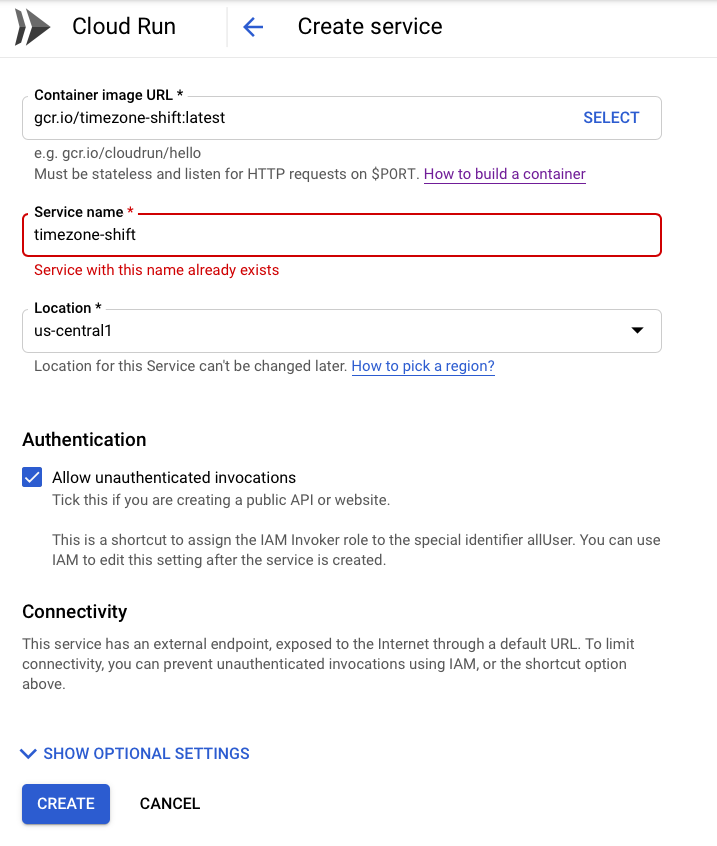
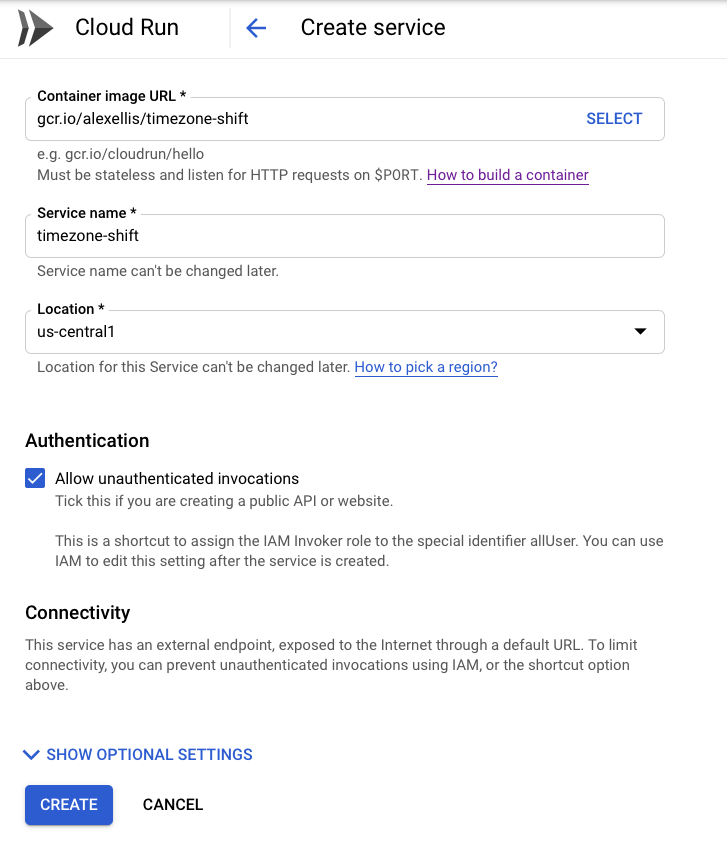
Add Cloud Run post

diff --git a/_posts/2019-04-09-openfaas-cloudrun.md b/_posts/2019-04-09-openfaas-cloudrun.md
@@ -1,8 +1,8 @@
 ---
-title: "Run your OpenFaaS functions for free on Google Cloud Run"
-description: Yesterday Google announced a new serverless SaaS product named Cloud Run, learn how to deploy your OpenFaaS functions for free
+title: "Run your OpenFaaS Functions on Google Cloud Run for free"
+description: Yesterday Google announced a new serverless SaaS product named Cloud Run, learn how to deploy your OpenFaaS Functions without modifications in the free tier
 date: 2019-04-09
-image: /images/openfaas-cloud-gitlab/palms-1.jpg
+image: /images/openfaas-cloudrun/cupping.jpg
 categories:
   - cloud
   - kubernetes
@@ -12,41 +12,51 @@ author_staff_member: alex
 dark_background: true
 ---
 
-In this post I'll show you how to build your OpenFaaS functions into the well-known Docker / OCI-image format so that you can deploy them to your own OpenFaaS cluster or to Google's new Cloud Run SaaS product.
+In this post I'll introduce Google's new Cloud Run product which like OpenFaaS allows any HTTP Server packaged in a Docker or OCI image format to be deployed and scaled.
 
-Yesterday Google [launched their new product](https://news.ycombinator.com/item?id=19610830) named Cloud Run. This is a proprietary serverless add-on for Google Cloud Platform (GCP) built around their flagship Istio and Knative projects.
+## Serverless 2.0 - it's about containers
 
-What does that mean for you and me? It means that we can deploy functions in containers to GCP and run them up to certain limits without incurring any billing costs. I thought it would be worth kicking the tires by deploying on of the functions I developed in my latest introductory post on [OpenFaaS Cloud & GitLab](https://www.openfaas.com/blog/openfaas-cloud-gitlab/).
+In my conference talk at [goto Copenhagen](https://www.youtube.com/watch?v=yOpYYYRuDQ0) last fall I coined the term *Serverless 2.0* which builds upon the learnings of the first-generate of proprietary SaaS products from major cloud vendors, but which uses containers for portability and to avoid lock-in. This approach has been core to the OpenFaaS community from day 1.
+
+Yesterday we saw Google [launch a new product](https://news.ycombinator.com/item?id=19610830) named [Cloud Run](https://cloud.google.com/run/docs/). This is a proprietary serverless add-on for Google Cloud Platform (GCP) built around their flagship [Istio](https://istio.io) and [Knative](https://cloud.google.com/knative/) projects.
+
+> What does that mean for you and me?
+
+It means that we can deploy functions in containers to GCP and run them up to certain limits without incurring any billing costs. I thought it would be worth kicking the tires by deploying one of the OpenFaaS functions I developed in my latest introductory post on [OpenFaaS Cloud & GitLab](https://www.openfaas.com/blog/openfaas-cloud-gitlab/).
 
 You may already be familiar with OpenFaaS - Serverless Functions Made Simple. I started the project in December 2016 out of a desire to run serverless-style workloads on any cloud without fear of getting locked-in. For that reason OpenFaaS builds Docker or OCI-format container images.
 
 <blockquote class="twitter-tweet" data-lang="en"><p lang="en" dir="ltr">✅Has a simple HTTP contract on port 8080<br>✅Is packaged in containers<br>✅Runs functions OR microservices<br>✅Can use any 64-bit Linux binary or HTTP server<br>✅Auto-scales on QPS, even to zero<br>✅Started over 2.5 years ago 🤔<br><br>Name this <a href="https://twitter.com/hashtag/serverless?src=hash&amp;ref_src=twsrc%5Etfw">#serverless</a> framework?</p>&mdash; Alex Ellis (@alexellisuk) <a href="https://twitter.com/alexellisuk/status/1115530479598473216?ref_src=twsrc%5Etfw">April 9, 2019</a></blockquote> <script async src="https://platform.twitter.com/widgets.js" charset="utf-8"></script>
 
-The traits and characteristics of Cloud Run / Knative match exactly what I outlined for OpenFaaS over two and a half years ago.
+The traits and characteristics of Cloud Run (hosted Knative) closely follow [what I outlined for OpenFaaS over two and a half years ago](https://blog.alexellis.io/functions-as-a-service/). This validates the design and [future of OpenFaaS into 2019 and beyond](https://blog.alexellis.io/openfaas-bright-2019/).
 
 | Trait                        | OpenFaaS          | Cloud Run      | Knative
 |------------------------------|-------------------|----------------|-------------|
 | License                      | Open Source (MIT) | Proprietary    | Open Souce (Apache 2) |
 | Workload                     | Container         | Container      | Container |
 | TCP Port                     | HTTP 8080         | HTTP 8080      | HTTP 8080 |
-| Auto-scaling on QPS          | Yes               | Yes    | Yes |
-| Scale to zero                | Yes               | Yes    | Yes |
-| Stateless microservices      | Yes               | Yes    | Yes |
-| Functions                    | Yes               | No    | No |
-| Run any binary as a service  | Yes               | No    | No |
+| Auto-scaling on QPS          | Yes               | Yes            | Yes |
+| Scale to zero                | Yes               | Yes            | Yes |
+| Stateless microservices      | Yes               | Yes            | Yes |
+| Functions                    | Yes               | No             | No |
+| Run any binary as a service  | Yes               | No             | No |
+| SaaS offering                | [OpenFaaS Cloud](https://docs.openfaas.com/openfaas-cloud/intro/)    | Cloud Run      | 3rd-party offerings |
 
-
-There's an undeniable level of similarity between the work we've done in the OpenFaaS community and what we're seeing today in Google's Knative project. There are however some important differences but this is beyond the scope of the post.
+There's an undeniable level of similarity between the work we've done in the OpenFaaS community and what we're seeing today in Google's Knative project. There are however some important differences, however exploring these is beyond the scope of this post. One of the key differences is that OpenFaaS targets light-weight, simple primitives directly within the Kubernetes API. The [OpenFaaS design](https://docs.openfaas.com/architecture/gateway/) builds its own set of UNIX-like primitives that allow any container orchestrator to implement functions.
 
 <iframe src="https://giphy.com/embed/9S706ievhjXVfG9s9Q" width="480" height="480" frameBorder="0" class="giphy-embed" allowFullScreen></iframe><p><a href="https://giphy.com/gifs/cat-clone-cloned-9S706ievhjXVfG9s9Q">via GIPHY</a></p>
 
-## Sign-up for GCP
+## Tutorial
+
+Let's get started with the tutorial.
+
+### Sign-up for GCP
 
 If you're a customer of GCP then you can continue, otherwise [sign-up here](https://cloud.google.com/free/)
 
 ### Enable GCP APIs and services
 
-You'll need to enable:
+You'll need to enable billing through a Linked Account which means it's time to go and grab your credit-card.
 
 * Cloud Build - this is to enable automated linking to your GitHub repo
 
@@ -54,7 +64,7 @@ You'll need to enable:
 
 * Cloud Run - Google's SaaS platform for deploying serverless containers
 
-All of the above require a linked Billing Account which means entering a valid credit-card.
+> Note: If you need to run on-premises, you can already deploy OpenFaaS on any [Kubernetes or OpenShift cluster](https://docs.openfaas.com/deployment/kubernetes/).
 
 ### Download the `gcloud` SDK/CLI
 
@@ -74,9 +84,9 @@ Now fork my example project to your GitHub account.
 
 ### Configure Cloud Build
 
-Since Google Cloud Build doesn't appear to allow the use of images not within a `gcr.io` account, we cannot use the OpenFaaS CLI from the Docker Hub. We'll need to pull it to our local machine then push it to our GCR project.
+Since Google Cloud Build doesn't appear to allow the use of images not within a `gcr.io` account, we cannot use the official OpenFaaS CLI image which is published to quay.io and the Docker Hub. This means pulling the image to our local machine, then tagging it and pushing it up to the GCR project.
 
-```
+```sh
 # Check "gcloud projects list" to find your project ID
 
 export PROJECT_ID="alexellis"
@@ -120,15 +130,15 @@ We have a chicken-and-egg situation right now. The `cloudbuild.yaml` file does a
 
 Comment out the lines for the step named `## Deploy to "Cloud Run"` and then do a commit. This will push a container image into our `gcr.io` registry.
 
-Each time your CI build finishes a new Revision will be created and deployed which is attached to the Cloud Run Service. This means if you do 10 successful builds, 10 Revisions will be deployed and linked to the Service.
+Each time your CI build finishes a new Revision will be created and deployed which is attached to the Cloud Run Service. This means if you do 10 successful builds, 10 Revisions will be deployed and [linked to the Service](https://cloud.google.com/run/docs/managing/services).
 
 ### Create a Cloud Run Service
 
-Now that we have CI and CD configured it's time to create a Service.
+Now that we have CI configured (and CD temporarily disabled) it's time to create a *Service*.
 
 Go to Cloud Run in the GCP console and enter the following:
 
-![](/openfaas-cloudrun/create-service.png)
+![](/images/openfaas-cloudrun/create-service.png)
 
 Make sure you click *Allow unauthenticated invocations* so that anyone can invoke the function.
 
@@ -144,23 +154,39 @@ Now go over to your fork of my GitHub repo and edit your `cloudbuild.yaml` file.
 
 When complete it will deploy a second revision to the Cloud Run Service and we'll get a URL on the Cloud Run dashboard.
 
+> Don't like managing a `cloudbuild.yaml` file for every one of your GitHub repositories? No problem - checkout [OpenFaaS Cloud](https://docs.openfaas.com/openfaas-cloud/intro/) which uses your existing stack.yml file to automate CI/CD for any linked repository on GitHub or self-hosted GitLab.
+
+### Monitor the function
+
+The Cloud Run UI has a somewhat spartan feel with many details hidden away or not yet available.
+
+![](/images/openfaas-cloudrun/overview.png)
+
+You can however view which Revision of your service is active and checkout the container logs:
+
+![](/images/openfaas-cloudrun/logs.png)
+
+### Cold starts
+
+There appears to be some work-in-progress on [cold starts](https://github.com/knative/serving/issues/1297) in Knative. It's still early, but I would hope to see some improvements over time. As the linked issue explains, part of the additional latency is due to the decision to tightly couple to a service mesh (Istio). Istio can deliver some interesting features such as traffic-splitting and mutual TLS, but does not come for free.
+
 ## Wrapping up
 
-We took an OpenFaaS function and without making any functional of configuration changes to it were able to deploy it to a brand new container SaaS platform built by a third-party. I think this is testament to the portability and ubiquity of the Docker / OCI-image format which I decided to use with OpenFaaS back in December 2016 when the project began.
+We took an OpenFaaS function and without making any code or configuration changes to it we were able to deploy it to a brand new container SaaS platform built by a third-party. I think this is testament to the portability and ubiquity of the Docker / OCI-image format which I decided to use with OpenFaaS back in December 2016 when the project began.
 
-Going forward you can continue to leverage OpenFaaS on any cloud - private, hybrid or public through OpenFaaS on Kubernetes, but today marks the day where OpenFaaS is so portable, that it even works on proprietary SaaS platforms.
+<blockquote class="twitter-tweet" data-lang="en"><p lang="en" dir="ltr">✅Has a simple HTTP contract on port 8080<br>✅Is packaged in containers<br>✅Runs functions OR microservices<br>✅Can use any 64-bit Linux binary or HTTP server<br>✅Auto-scales on QPS, even to zero<br>✅Started over 2.5 years ago 🤔<br><br>Name this <a href="https://twitter.com/hashtag/serverless?src=hash&amp;ref_src=twsrc%5Etfw">#serverless</a> framework?</p>&mdash; Alex Ellis (@alexellisuk) <a href="https://twitter.com/alexellisuk/status/1115530479598473216?ref_src=twsrc%5Etfw">April 9, 2019</a></blockquote> <script async src="https://platform.twitter.com/widgets.js" charset="utf-8"></script>
 
-The Cloud Run and Knative approach to serverless containers mirrors almost exactly the design I outlined over two and a half years ago. There are however key differences in complexity, running costs and driving values between the Knative project and OpenFaaS.
+Going forward you can continue to leverage OpenFaaS on any cloud - private, hybrid or public through OpenFaaS on Kubernetes, but today marks the day where OpenFaaS is so portable, that it even works on proprietary SaaS platforms. The Cloud Run and Knative approach to serverless containers mirrors very closely the design I outlined over two and a half years ago. There are however there are key differences in implementation, design and target audience between Knative project and the OpenFaaS community. In this post we built and packaged code with the OpenFaaS CLI and build templates - in my opinion that is a good place for Serverless 2.0 to start to converge, but there is much more to OpenFaaS than a container image.
 
-The OpenFaaS community values are: developers-first, operational simplicity and community-centric.
-
-<blockquote class="twitter-tweet" data-lang="en"><p lang="en" dir="ltr">✅Has a simple HTTP contract on port 8080<br>✅Is packaged in containers<br>✅Runs functions OR microservices<br>✅Can use any 64-bit Linux binary or HTTP server<br>✅Auto-scales on QPS, even to zero<br>✅Started over 2.5 years ago 🤔<br><br>Name this <a href="https://twitter.com/hashtag/serverless?src=hash&amp;ref_src=twsrc%5Etfw">#serverless</a> framework?</p>&mdash; Alex Ellis (@alexellisuk) <a href="https://twitter.com/alexellisuk/status/1115530479598473216?ref_src=twsrc%5Etfw">April 9, 2019</a></blockquote> <script async src="https://platform.twitter.com/widgets.js" charset="utf-8"></script> 
+The OpenFaaS community values are: developers-first, operational simplicity, and community-centric. If you have comments, questions or suggestions or would like to join the community, then please [join us on OpenFaaS Slack](https://docs.openfaas.com/community/).
 
 You can [follow me @alexellisuk](https://twitter.com/alexellisuk/) and [@openfaas on Twitter](https://twitter.com/openfaas/)
 
-If you have comments, questions or suggestions then please [join the OpenFaaS Slack](https://docs.openfaas.com/community/) to chat with the community.
-
 ### You may also like:
+
+Serverless 2.0 can also be used as a packaging format for other proprietary platforms such as AWS Lambda. Here's a preview of faas-lambda by [Ed Wilde](https://github.com/ewilde), a back-end provider built with OpenFaaS primitives that means functions can be written once and deployed to both AWS Lambda and OpenFaaS on Kubernetes without any modifications:
+
+<blockquote class="twitter-tweet" data-lang="en"><p lang="en" dir="ltr">What if I told you, that you could deploy your OpenFaaS functions directly to AWS Lambda or Kubernetes without changing them using all the same tools? <a href="https://t.co/D4qO4wnyoP">pic.twitter.com/D4qO4wnyoP</a></p>&mdash; Alex Ellis (@alexellisuk) <a href="https://twitter.com/alexellisuk/status/1112632495286161413?ref_src=twsrc%5Etfw">April 1, 2019</a></blockquote> <script async src="https://platform.twitter.com/widgets.js" charset="utf-8"></script> 
 
 * [Build a single page app with OpenFaaS Cloud](https://www.openfaas.com/blog/serverless-single-page-app/)
 * [Sailing through the Serverless Ocean with Spotinst & OpenFaaS Cloud](https://spotinst.com/blog/2019/03/25/sailing-through-the-serverless-ocean-with-openfaas-cloud/)
